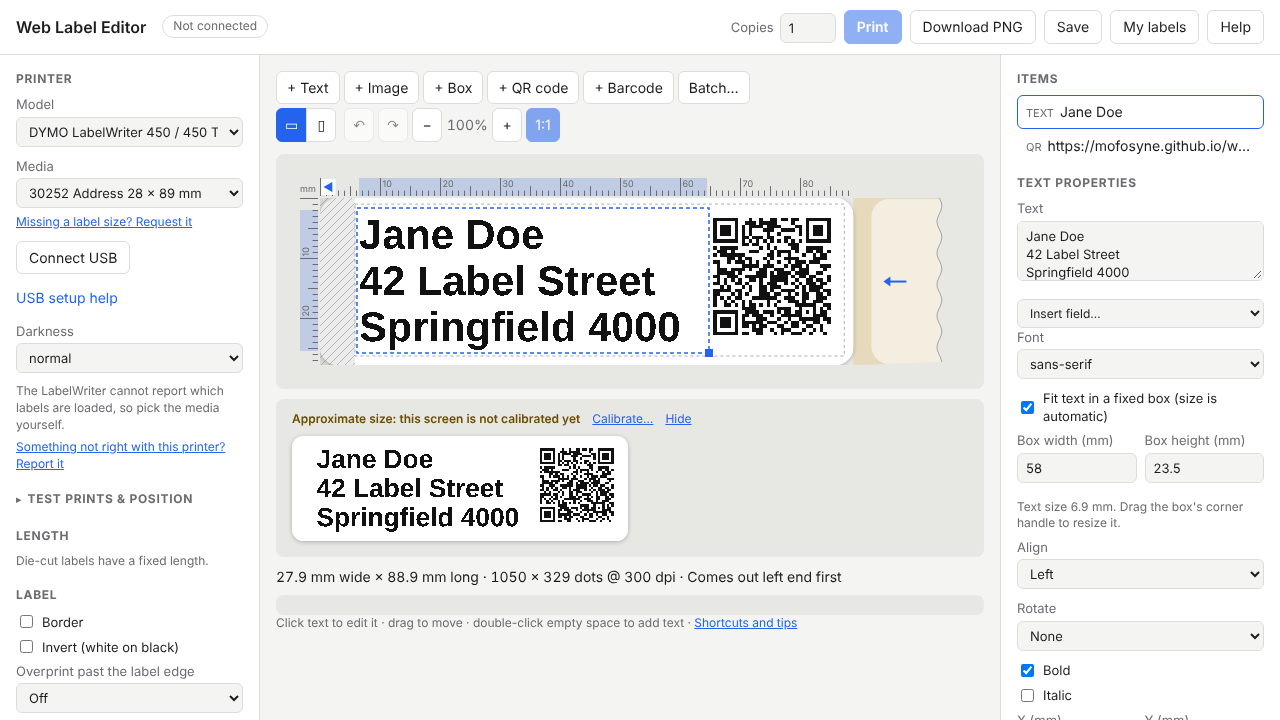
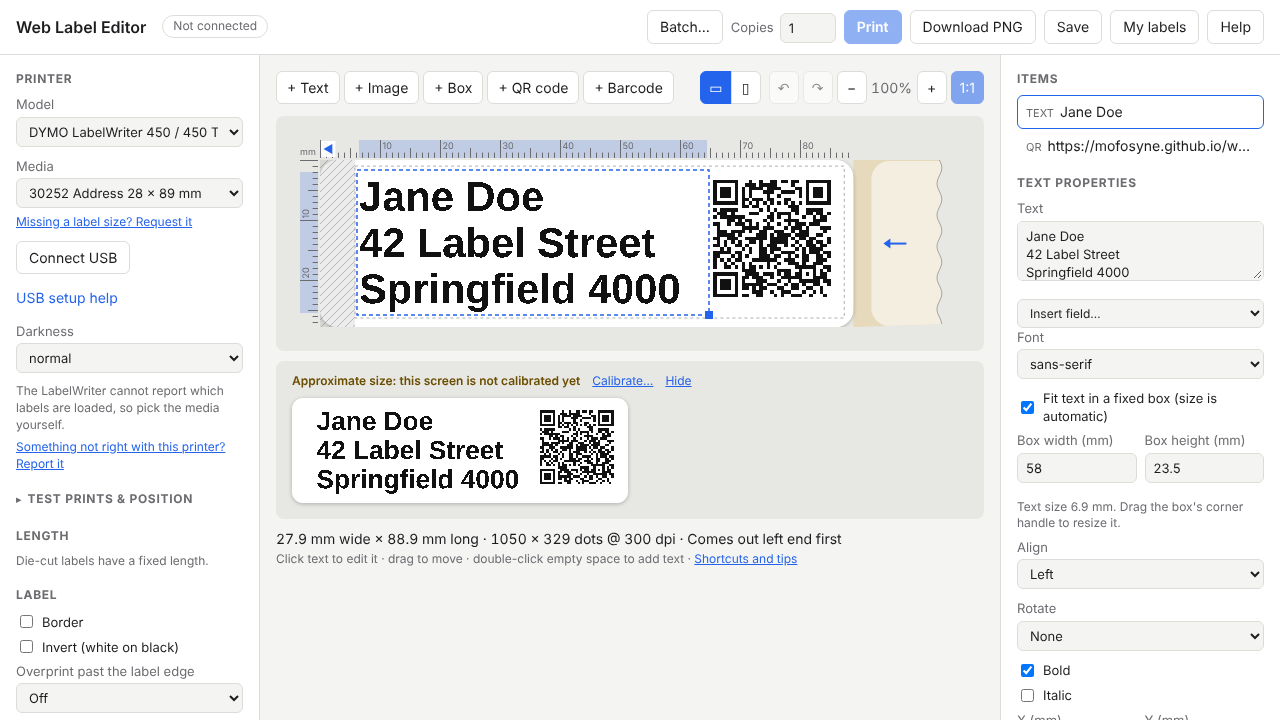
Batch in the top bar; name what is cut off; empty codes are errors
From trying it out:
- Batch… moves from the item toolbar (read as 'add an item', so it went
  unseen) to the top bar next to Copies and Print, whose count it sets.
- The hidden Batch panel still showed as an empty strip ([hidden] lost
  to display: grid).
- The cut-off warning names the item ('The text "Hello…" goes past where
  the printer can print'), instead of 'Something'.
- An empty QR code or barcode is an error (⚠ in the item list, blocks
  Print) rather than printing a code of nothing.

Claude-Session: https://claude.ai/code/session_01YQFkThD3TEfZZoGyfdA6sY

diff --git a/src/app.js b/src/app.js
@@ -586,6 +586,17 @@ function draw() {
     || (b.y + b.h) * scale > a.y1 + slack || (b.x + b.w) * scale > a.x1 + slack;
   const shownBounds = last.bounds.map((b, i) => (b ? { b, lane: last.lanes[i] } : null)).filter(Boolean);
   const offLabel = shownBounds.some(({ b }) => outside(b, hard));
+  // Name what is cut off, so it can be found and moved.
+  const cutOff = last.bounds.map((b, i) => (b && outside(b, hard) ? design.items[i] : null)).filter(Boolean);
+  const kinds = { text: 'text', qr: 'QR code', barcode: 'barcode', image: 'image', box: 'box' };
+  const short = (it) => {
+    const s = it.type === 'text' ? it.text.split('\n')[0] : it.type === 'qr' || it.type === 'barcode' ? it.data : '';
+    return s ? ` "${s.length > 24 ? `${s.slice(0, 23)}…` : s}"` : '';
+  };
+  const cutNote = cutOff.length
+    ? `  ·  ⚠ The ${kinds[cutOff[0].type]}${short(cutOff[0])}${cutOff.length > 1 ? ` and ${cutOff.length - 1} more` : ''} `
+      + `${cutOff.length > 1 ? 'go' : 'goes'} past where the printer can print and will be cut off`
+    : '';
   const overprint = !offLabel && shownBounds.some(({ b, lane }) => outside(b, safe[lane]));
   const dims = $('dims');
   // In words: the ends as seen in the preview.
@@ -594,7 +605,7 @@ function draw() {
     + (feed.cuts ? `, cut at the ${end(feed.trail)}` : '')
     + (feed.grows ? `; grows ${last.portrait ? 'downwards' : 'to the right'} as you add content` : '');
   dims.textContent = `${tape} × ${lenMm.toFixed(1)} mm long${last.portrait ? ', portrait' : ''}  ·  ${geo.width} × ${geo.height} dots @ ${m.dpi} dpi`
-    + (offLabel ? '  ·  ⚠ Something is where the printer cannot print and will be cut off' : '')
+    + cutNote
     + (overprint ? '  ·  Overprinting past the safe area (the die cut may trim it)' : '')
     + (last.hidden ? `  ·  ${last.hidden} item${last.hidden > 1 ? 's' : ''} on the other label${lanes?.count > 2 ? 's' : ''} hidden (choose "A different design on each")` : '')
     + `  ·  ${feedNote}`;
@@ -1419,7 +1430,8 @@ async function print() {
       const broken = d.items.find((it) => itemError(it));
       if (broken) {
         const which = batch && batch.length > 1 ? ` label ${n + 1}` : '';
-        showBanner(`Can't print${which}: ${itemError(broken)} (${broken.type === 'qr' ? 'QR code' : 'barcode'} "${broken.data}").`);
+        const what = broken.data ? ` (${broken.type === 'qr' ? 'QR code' : 'barcode'} "${broken.data}")` : '';
+        showBanner(`Can't print${which}: ${itemError(broken)}${what}.`);
         return;
       }
     }

diff --git a/index.html b/index.html
@@ -14,6 +14,7 @@
       <span id="conn-status" class="pill">Not connected</span>
     </div>
     <div class="actions">
+      <button id="btn-batch" title="Print a batch: one label per row of a spreadsheet or list, numbered or dated">Batch…</button>
       <label class="copies">Copies <input id="copies" type="number" min="1" max="99" value="1"></label>
       <button id="btn-print" class="primary" disabled>Print</button>
       <button id="btn-png">Download PNG</button>
@@ -95,7 +96,6 @@
         <button id="add-box">+ Box</button>
         <button id="add-qr">+ QR code</button>
         <button id="add-barcode">+ Barcode</button>
-        <button id="btn-batch" title="Print a batch: one label per row of a spreadsheet or list, numbered or dated">Batch…</button>
         <input id="image-file" type="file" accept="image/*" hidden>
         <span class="spacer"></span>
         <span class="tools">

diff --git a/src/about.js b/src/about.js
@@ -135,7 +135,7 @@ function tips() {
       li(b('Rulers'), ' measure from the label\'s starting edge and from each label\'s top, and mark the selected item.')),
     el('h3', { textContent: 'Batches: data, numbers and dates' }),
     el('ul', {},
-      li(b('Batch…'), ' in the toolbar opens the Batch panel under the label, in three steps: open a data file '
+      li(b('Batch…'), ' (top bar, next to Copies) opens the Batch panel under the label, in three steps: open a data file '
         + '(optional), click the fields to put on the label, then check each label and print.'),
       li(b('Data files'), ': a CSV, the first Markdown table in a file, JSON (a list of records) or a GNU recfile. '
         + 'Its column names become fields, e.g. ', b('{Name}'), '; Print makes one label per row (times Copies).'),

diff --git a/style.css b/style.css
@@ -348,6 +348,7 @@ a.small-link { display: block; font-size: 12px; color: var(--accent); margin: -4
 #report-printer { color: var(--accent); }
 
 /* Data rows, counter and date: under the editor while the design has fields. */
+.data-bar[hidden] { display: none; }
 .data-bar { margin: 8px 0 0; padding: 10px 12px; background: var(--stage); border-radius: 8px; font-size: 13px; display: grid; gap: 10px; }
 .data-bar header { display: flex; align-items: center; justify-content: space-between; }
 .data-bar h2 { margin: 0; font-size: 13px; }

diff --git a/src/render.js b/src/render.js
@@ -17,6 +17,7 @@ export function encodeItem(item) {
     : `bc|${item.symbology}|${item.data}`;
   if (!codeCache.has(key)) {
     try {
+      if (!String(item.data ?? '').trim()) throw new Error(`The ${item.type === 'qr' ? 'QR code' : 'barcode'} is empty`);
       const code = item.type === 'qr'
         ? encodeQr(item.data ?? '', item.ecc ?? 'M')
         : SYMBOLOGIES[item.symbology].encode(item.data ?? '');

diff --git a/README.md b/README.md
@@ -199,7 +199,7 @@ The app has its own welcome page and **Help** with the same information.
   (or Ctrl+Y) undo and redo, with a drag or a burst of typing as one step.
 - **Batches from data, numbering and dates:** put `{Name}` (a column),
   `{n}` (a counter) or `{date}` / `{time}` in any text, QR code or barcode.
-  The *Batch…* button walks through it: open a data file, click the fields
+  The *Batch…* button, next to Copies, walks through it: open a data file, click the fields
   to put on the label, check each label, print. Data comes from a CSV, a Markdown table,
   JSON or a GNU recfile; Print makes one label per chosen row, as one job
   where the printer allows. Step through the labels before printing to check
